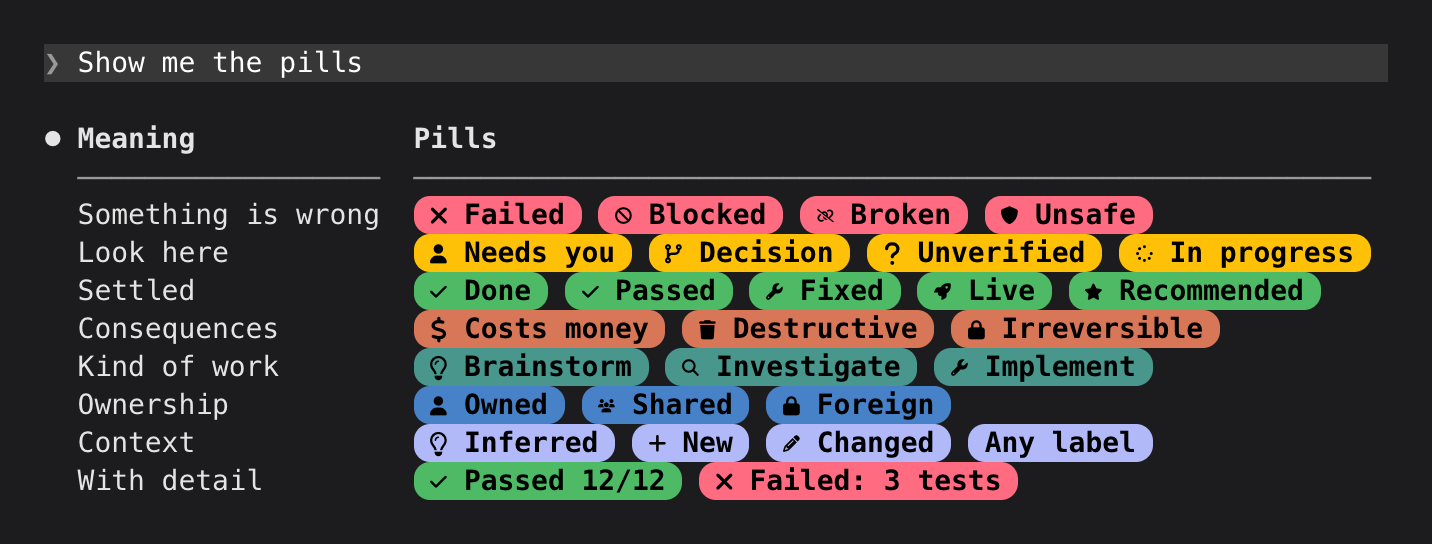
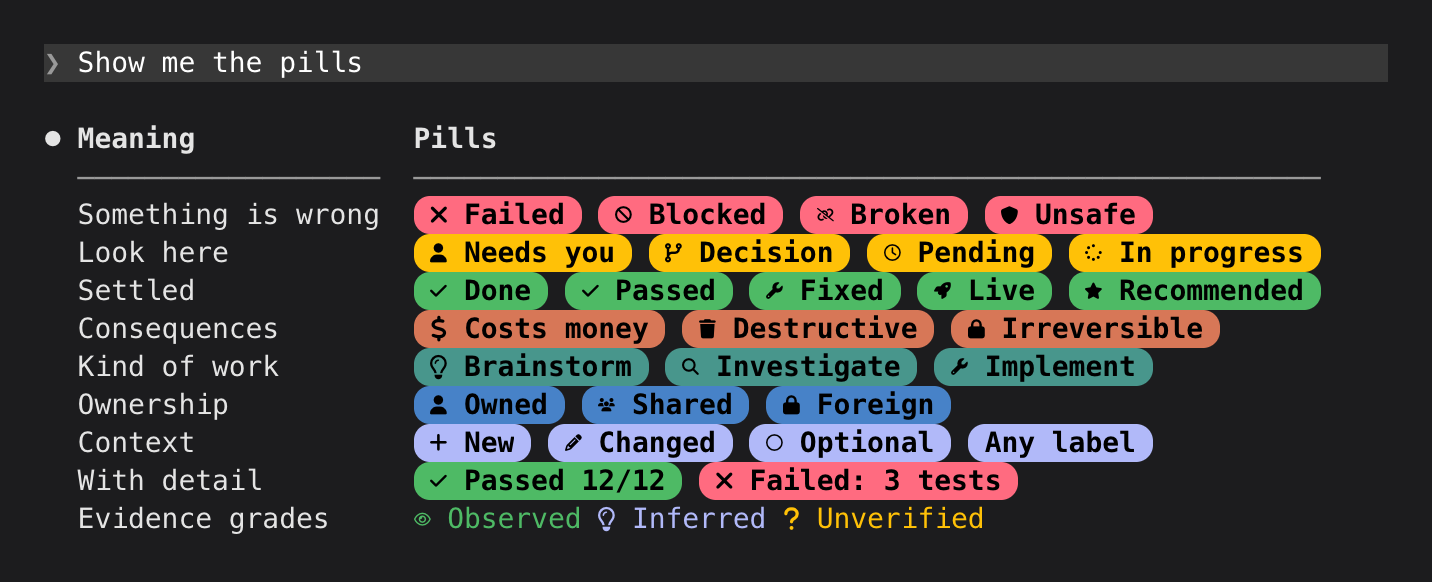
Show roles and evidence tags in the README screenshots

Changed region(s): [[0.0307, 0.2188, 0.9832, 0.9375], [0.0307, 0.0625, 0.9832, 0.1562]]

diff --git a/README.md b/README.md
@@ -2,7 +2,7 @@
 
 A Claude Code mod that makes replies easier to scan in the terminal. It draws `[[Done]]`, `[[Failed]]` and `[[Needs you]]` as colored pills with icons, gives known headings and lead labels an icon, colors bold text, and colors `✓`, `✗`, `→` and tree lines. It also gives each part of a reply the weight of its role: an ask or a problem becomes a block with a colored bar, evidence is dim, a guess is italic, and working notes are dim and italic.
 
-<img src="screenshots/reply.png" width="716" alt="A Claude Code reply with status pills, icons on headings and lead labels, colored bold text, colored check marks and arrows, and a tree">
+<img src="screenshots/reply.png" width="716" alt="A Claude Code reply with status pills, an ask and a failure as blocks with a colored bar, dim evidence, an italic guess, dim italic working notes, ruled headings, icons on headings and lead labels, colored bold text, colored check marks and arrows, and a tree">
 
 It changes only what is drawn. Stored messages and copied text keep the original Markdown. Code blocks, inline code, quotes and replies with nothing to decorate are drawn by Claude Code as usual.
 
@@ -44,7 +44,7 @@ The rules are a file and not part of the mod because an organization's policy ca
 
 The word decides the color and the icon. A known word may carry detail, such as `[[Passed 12/12]]` or `[[Failed: 3 tests]]`. A label can be up to 32 characters.
 
-<img src="screenshots/pills.png" width="716" alt="Pills in each color: red, yellow, green, orange, teal, blue and soft blue, each with its icon">
+<img src="screenshots/pills.png" width="716" alt="Pills in each color: red, yellow, green, orange, teal, blue and soft blue, each with its icon, and the three evidence grades as colored tags with no fill">
 
 | Color | Meaning | Words |
 |---|---|---|
